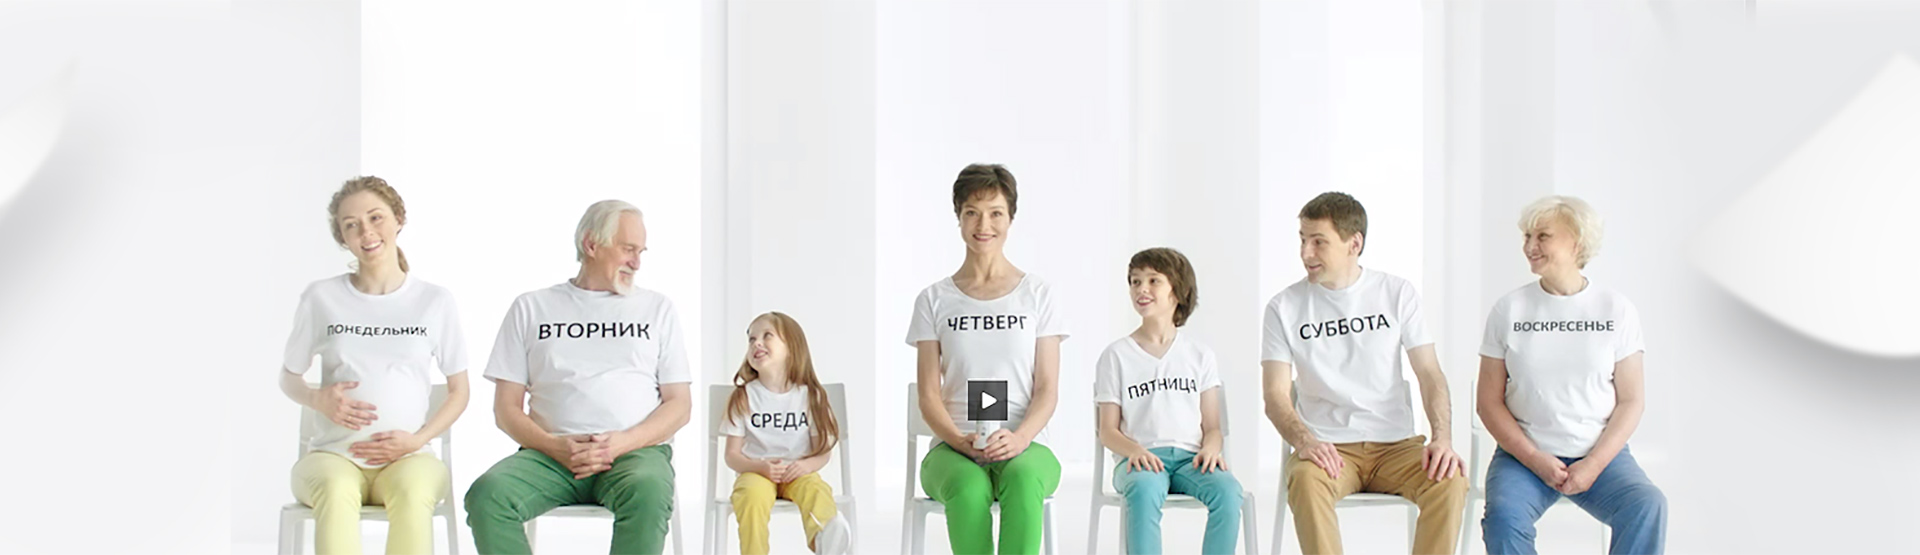
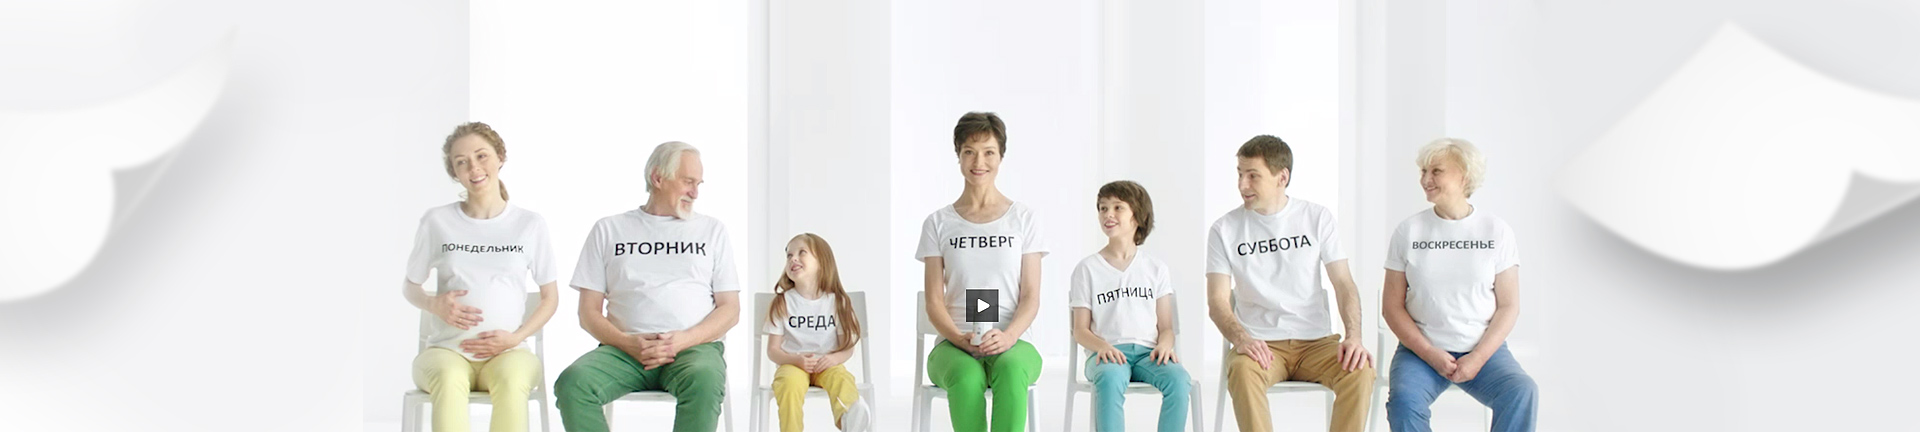
fix

diff --git a/local/templates/main/new.css b/local/templates/main/new.css
@@ -1,6 +1,10 @@
-.home-family-text {position:absolute; left:0; top:94px; right:0; text-align:center; font-size:37px; line-height:53px; color:#6cb028; font-weight:bold}
+.home-family {top:130px; height:432px; background-size:auto; background-position:center top}
+.paper {padding-top:390px}
+.paper-roll-wrap::after, .paper-roll-wrap::before {height:148px}
+
+.home-family-text {position:absolute; left:0; top:24px; right:0; text-align:center; font-size:37px; line-height:53px; color:#6cb028; font-weight:bold}
 .home-family-text img {vertical-align:middle; margin:4px 0 0 9px}
-.home-family-play {position:fixed; left:50%; top:240px; z-index:201; display:block; margin:0 0 0 -30px; width:59px; height:59px; border-radius:50%; background:rgba(99, 188, 27, .8)}
+.home-family-play {position:fixed; left:50%; top:300px; z-index:201; display:block; margin:0 0 0 -30px; width:59px; height:59px; border-radius:50%; background:rgba(99, 188, 27, .8)}
 .videoplay .home-family-play {display:none}
 .home-family-play:hover {background:rgba(99, 188, 27, 1)}
 .home-family-play:after {content:""; display:block; width:0; height:0; border-left:16px solid #fff; border-top:10px solid transparent; border-bottom:10px solid transparent; position:absolute; left:23px; top:50%; margin:-10px 0 0 0}
@@ -18,7 +22,7 @@
 
 .footer-content {font-size:14px; line-height:18px}
 
-.products {padding-top:190px}
+.products {padding-top:190px; padding-bottom:40px}
 
 .why__title {margin:0 0 16px 0}
 .why__subtitle {text-transform:uppercase; font-weight:bold; text-align:center; font-size:28px; line-height:30px}
@@ -55,7 +59,7 @@
 .why__content {z-index:21; margin-top:-39px}
 .why-item__title {font-size:1.5rem; line-height:2em}
 .why-item__text {font-size:1.25rem; line-height:1.25em}
-.why-item__text sup {font-size:12px; top:-10px; position:relative}
+.why-item__text sup {font-size:11px; top:-8px; left:3px; position:relative}
 .why-item__icon {width:65px; height:65px}
 .why-item--anim-1 .why-item__icon {width:76px; height:74px}
 .why-item--anim-3 .why-item__icon {width:77px; height:77px}
@@ -88,9 +92,10 @@
 }
 
 @media screen and (max-width:999px) {
-    .home-family-text {font-size:19px; line-height:19px; top:20px}
+    .home-family  {top:40px; height:400px !important}
+    .home-family-text {font-size:19px; line-height:19px; top:100px}
     .home-family-text img {width:103px; height:33px}
-    .home-family-play {top:160px}
+    .home-family-play {top:210px}
     .home-family {height:325px}
     .paper {padding-top:260px}
     .why-item--anim-1 {top:auto; left:auto}
@@ -105,10 +110,7 @@
     .why-item--anim-1 {top:auto; margin-bottom:0}
     .why-item--anim-3 {top:-auto; margin-bottom:0}
     .products {padding-top:30px}
-    .everyday-icons__item--eat {transform:scale(1)}
-    .everyday-icons__item--paper {transform:scale(1)}
     .everyday-icons__item + .everyday-icons__item {margin-left:30px}
-    .everyday-icons__item--bed {transform:scale(1)}
     .everyday__title {font-size:24px; line-height:24px}
     .everyday__text {font-size:14px; line-height:16px}
     .why__subtitle {text-transform:none; padding-top:71px; font-size:24px; line-height:30px}
@@ -128,3 +130,24 @@
 }
 
 .footer-copyright a {color:#8dc457; text-decoration:none}
+
+@media screen and (max-width:980px) {
+    .home-family  {top:60px; height:300px !important; background:url(static/images/home/family-bg-mobile.jpg) no-repeat center top; background-size:auto}
+    .home-family-text {top:20px}
+    .home-family-play {top:140px}
+    .paper-roll-wrap::after, .paper-roll-wrap::before {top:-100px}
+    .paper {padding-top:270px}
+    .paper-roll {position:relative; z-index:50; height:380px; width:294px; margin:0 auto -90px; -webkit-transform:translateY(-90px); -ms-transform:translateY(-90px); transform:translateY(-90px); padding-top:30px; padding-left:24px; background:url(static/images/home/paper.png) top/100% auto no-repeat}
+    .videoplay .paper {padding-top:37.5%}
+    .videoplay .paper-roll {-webkit-transform:translateY(0);-ms-transform:translateY(0);transform:translateY(0)}
+    .paper-today {text-align: center; text-transform: uppercase; font-weight: 700; font-size: 0.875rem; line-height: 1em}
+}
+
+@media screen and (max-width:767px) {
+    .home-family-text {top:20px}
+    .home-family-play {top:160px}
+    .paper-roll-wrap::after, .paper-roll-wrap::before {top:-100px}
+    .paper {padding-top:260px}
+    .videoplay .paper {padding-top:37.5%}
+    .videoplay .paper-roll {-webkit-transform:translateY(0);-ms-transform:translateY(0);transform:translateY(0)}
+}

diff --git a/main.html b/main.html
@@ -411,7 +411,7 @@
                                 </div>
                             </div>
                         </div>
-                        <div class="col-xs-24 col-sm-20 offset-sm-1 col-md-8 offset-md-0 col-lg-8 why-item why-item--anim why-item--anim-2">
+                        <div class="col-xs-24 col-sm-18 offset-sm-3 col-md-8 offset-md-0 why-item why-item--anim why-item--anim-2">
                             <div class="why-item__inner">
                                 <svg class="why-item__icon">
                                     <use xlink:href="local/templates/main/static/images/icons/main.svg#icon-clock"></use>
